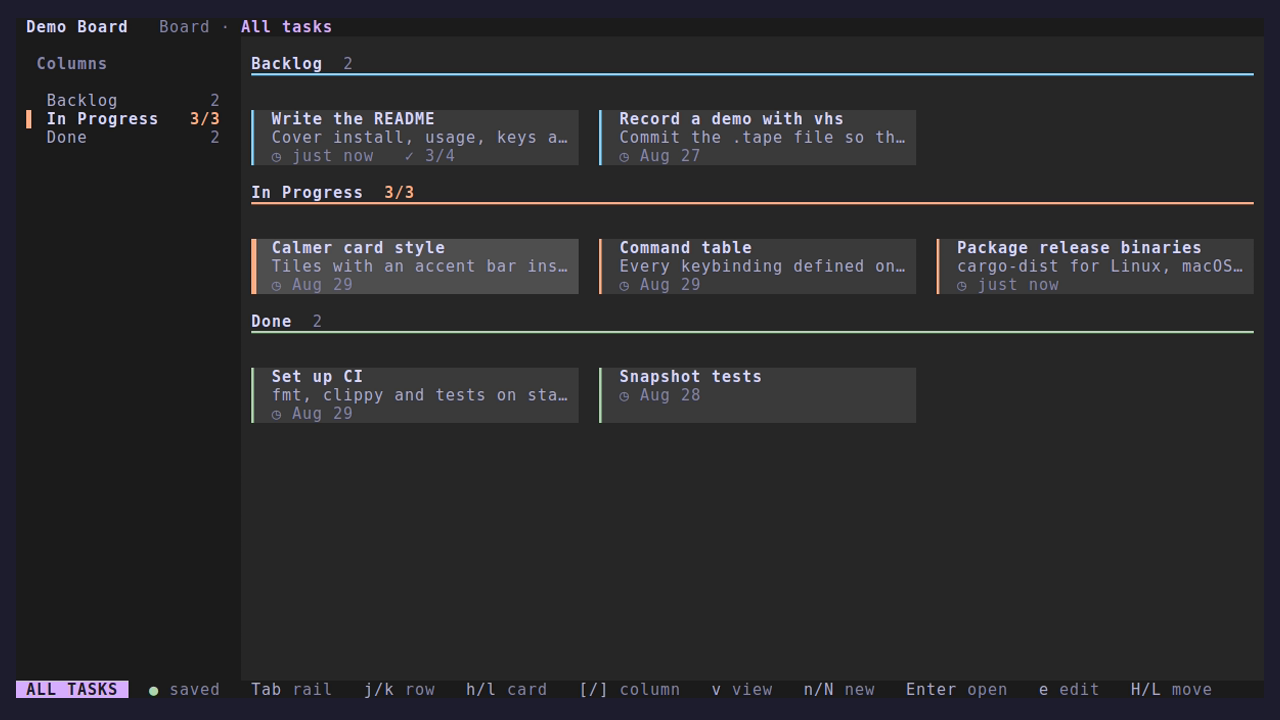
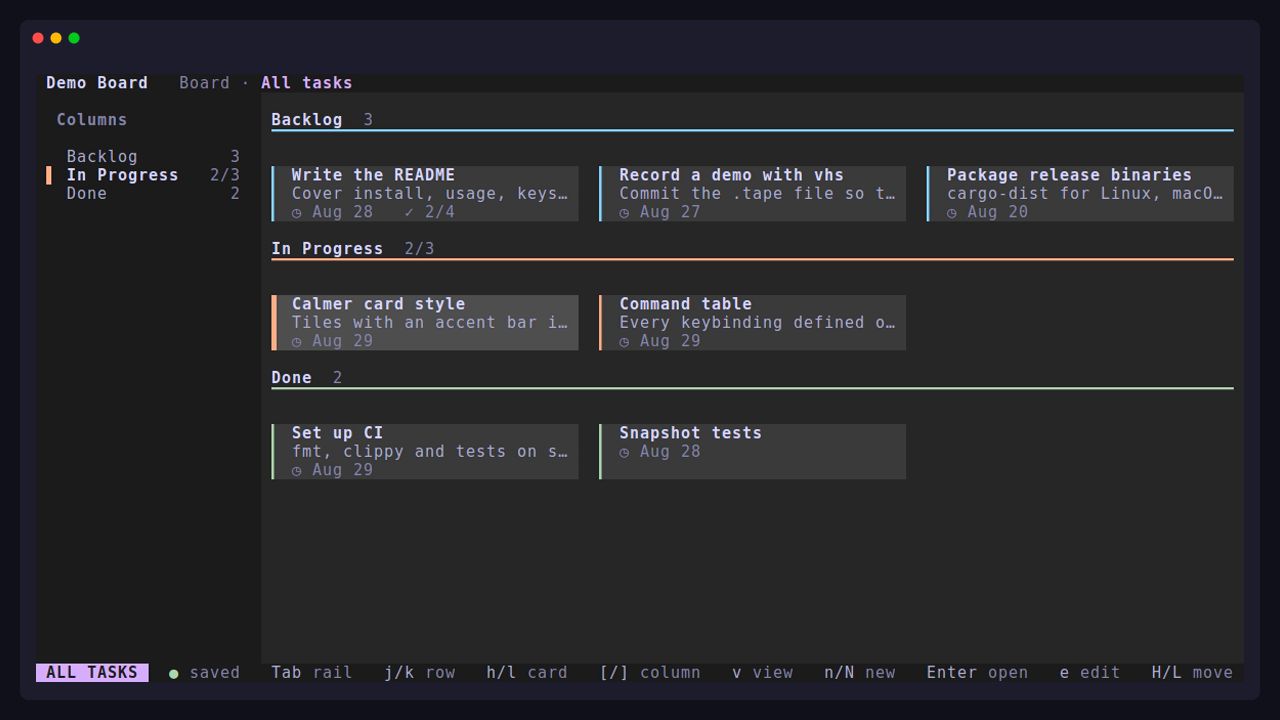
docs: a screenshot tour in the README
The README is reorganised around what using tui-kanban looks like: a
short intro and the demo, install, a quick start, then a tour with a
screenshot for each part: the board, a card's details and checklist,
search (with a table of filter terms), All tasks, the command palette,
which-key, column management with a work-in-progress limit and a
collapsed lane, and the Latte theme. Keys, options, configuration and
the board file follow as reference.

The screenshots now come from their own tape, docs/screenshots.tape,
which sets up each screen without being part of the demo, so there can
be more of them and each is taken in a known state. The demo tape only
records the GIF. Both frame the terminal in a window.

Claude-Session: https://claude.ai/code/session_015bs4Y8jDdvc2ULa7sBmrDB

diff --git a/README.md b/README.md
@@ -1,29 +1,25 @@
 # tui-kanban
 
-A calm, keyboard-first Kanban board for the terminal. Each project keeps
-its board in a small JSON file next to its code, found the way git finds
-`.git`, so running `tui-kanban` anywhere in the project opens it.
+A calm, keyboard-first Kanban board for your terminal. Each project
+keeps its board in a small JSON file next to its code, and running
+`tui-kanban` anywhere in the project opens it, the way git finds `.git`.
 
 ![A demo: moving a card, a work-in-progress limit, a card's checklist, search, All tasks, the command palette and collapsing a lane](docs/demo.gif)
 
-- **Board and All tasks views.** Lanes for the workflow, or every task
-  grouped by column. Narrow terminals get one lane at a time with a tab
-  strip; wide ones pin the detail drawer beside the lanes.
-- **Fast to drive.** `h j k l`, `1`–`9` and `g` + a lane's initial to
-  move; `H`/`L` and `J`/`K` to move cards; a command palette (`:`), a
-  which-key panel (`Space`), and undo and redo for every change.
-- **Markdown descriptions** with checklists you tick from the detail
-  drawer, edited in a built-in editor or your own `$EDITOR`.
-- **Fuzzy search with filter terms**: `in:progress`, `#tag`,
-  `updated:<7d`, with the matched letters highlighted.
+- **Two views**: lanes for the workflow, or every task grouped by column.
+- **Fast to drive**: vim-style keys, a command palette, a which-key
+  panel, and undo and redo for every change.
+- **Markdown descriptions** with checklists you tick without leaving the
+  board, edited in a built-in editor or your own `$EDITOR`.
+- **Fuzzy search with filter terms** such as `in:progress`, `#tag` and
+  `updated:<7d`.
 - **Columns managed in the app**, with colours, work-in-progress limits
-  and lanes that collapse to a strip.
-- **The mouse works too**: click, double-click, scroll, and drag cards.
-- **Safe with your data**: saved in the background, atomically; changes
-  another program makes to the file are picked up, and never silently
-  overwritten.
-- **Themes**: the four Catppuccin flavours, picked to match your
-  terminal, 16 colours, your own, or none with `NO_COLOR`.
+  and lanes that fold away.
+- **Mouse support**: click, scroll and drag cards between lanes.
+- **Safe with your data**: saved in the background and atomically, and
+  never silently overwritten when another program changes the file.
+- **Themes**: the four Catppuccin flavours, matched to your terminal's
+  background, 16 colours, your own, or none with `NO_COLOR`.
 
 ## Install
 
@@ -36,38 +32,128 @@ cargo install --git https://github.com/Theblackcat98/tui-kanban
 or, from a clone, `cargo install --path .`. Release binaries and a
 crates.io release are planned.
 
-## Usage
+## Quick start
 
 ```sh
 cd ~/src/my-project
 tui-kanban
 ```
 
-tui-kanban looks for `.tui-kanban.json` in the current directory and
-each one above it, stopping at the git root. If there isn't one, it
-asks whether to create one here or to open your personal board
-(`~/.local/share/tui-kanban/boards/personal.json`).
+The first time, there's no board yet: press `c` to create one in the
+current directory (it's named after the directory, and saved as
+`.tui-kanban.json`), or `p` to use your personal board instead. From
+then on, `tui-kanban` finds it from anywhere in the project, up to the
+git root.
 
-| Option | |
+Then `n` adds a task, `Enter` opens it, `H` and `L` move it between
+lanes, and `q` quits. Press `?` for the keys on the screen you're on,
+`:` to search every command, or `Space` for a panel of the keys you can
+press next.
+
+To try it on a sample board first:
+
+```sh
+cp examples/demo-board.json /tmp/demo.json && tui-kanban --board /tmp/demo.json
+```
+
+## A tour
+
+### The board
+
+![The Board view: a column rail on the left, and Backlog, In Progress and Done lanes of cards](docs/screenshots/board.png)
+
+Each column is a lane, and each card shows its title, the first line of
+its description, when it last changed, and checklist progress (`✓ 2/4`).
+`h j k l` or the arrow keys move around, `1`–`9` jump to a lane, `H`/`L`
+move a card to the next lane and `J`/`K` reorder it. The status line
+shows what mode you're in, whether everything is saved, and the keys
+that make sense right now.
+
+On narrow terminals the board shows one lane at a time with a tab strip
+naming the others; lanes that don't fit scroll sideways.
+
+### Details and checklists
+
+![The detail drawer open beside the board, showing a Markdown description with a checklist](docs/screenshots/detail.png)
+
+`Enter` opens a card in the drawer. Descriptions are Markdown: headings,
+lists, quotes, code and checklists. `Tab` moves between checklist items
+and `Space` ticks them. `e` edits the card, and `E` opens the
+description in your own `$EDITOR`.
+
+### Search
+
+![Searching for "in:progress card": one match, with the other lanes empty](docs/screenshots/search.png)
+
+`/` filters every lane as you type. Text matches titles fuzzily, and
+terms narrow it down:
+
+| Term | Matches |
 |---|---|
-| `--board <PATH OR NAME>` | Open a board file, or a board by name: a recent board with that name, or a personal board of that name in the data directory |
-| `--theme <NAME>` | `auto` (the default), `latte`, `frappe`, `macchiato`, `mocha`, `ansi`, or your own; see [docs/themes.md](docs/themes.md) |
-| `--no-animation` | Turn off animations; a non-empty `REDUCE_MOTION` does the same |
-| `--no-mouse` | Leave the mouse to the terminal, so text can be selected as usual |
-| `tui-kanban config` | Print where the config file is; add `--print-default` for a commented one with every default |
+| `in:progress` | tasks in a column whose name contains "progress" |
+| `#bug` | tasks with the hashtag `#bug` |
+| `updated:<7d`, `created:>2w`, `updated:today` | tasks by when they changed or were made |
+| `'exact`, `^prefix`, `suffix$`, `!not` | as in fzf |
 
-A non-empty `NO_COLOR` turns colour off; state is then shown with bold,
-reversed and underlined text.
+`↓`/`↑` step through the matches, `Enter` keeps the filter while you
+work, and `Esc` clears it.
 
-Press `b` to switch between recent boards, `?` for the keys on the
-screen you're on, `:` for every command, and `Space` for a panel of the
-keys you can press next.
+### All tasks
 
-| The board | A card's details |
-|---|---|
-| ![The Board view with three lanes and the column rail](docs/screenshots/board.png) | ![The detail drawer with a Markdown checklist](docs/screenshots/detail.png) |
-| **Search with filter terms** | **All tasks** |
-| ![Searching for "in:progress card"](docs/screenshots/search.png) | ![The All tasks view, grouped by column](docs/screenshots/all-tasks.png) |
+![The All tasks view: every task in a grid, grouped under each column's name](docs/screenshots/all-tasks.png)
+
+`v` switches to every task at once, grouped by column, for a quick
+overview. The same keys work on the cards here.
+
+### The command palette and which-key
+
+![The command palette, with "move" typed and five matching commands](docs/screenshots/palette.png)
+
+`:` or `Ctrl+K` lists every command available where you are, plus "go
+to lane" and "go to task" for each one, with the keys for each command
+on the right. Commands you run from it come first next time.
+
+![The which-key panel along the bottom of the board, listing every key](docs/screenshots/which-key.png)
+
+`Space` shows every key you can press on the current screen; the next
+key does what it normally does.
+
+### Columns and work-in-progress limits
+
+![The rail focused on In Progress, which is at its limit of 3, with Done collapsed to a narrow strip](docs/screenshots/columns.png)
+
+`Tab` focuses the column rail. There, `a` adds a column, `r` renames
+it, `d` deletes it (asking where its tasks should go), `J`/`K` reorder,
+`c` picks a colour and `w` sets a work-in-progress limit. A column at
+its limit shows its count (`3/3`) in orange, and red past it, and
+moving another task in asks first. `z` folds a lane into a narrow strip,
+say to keep Done out of the way.
+
+### Boards
+
+`b` switches between the boards you've opened recently, and your
+personal board. `--board` opens one by path, or by name.
+
+### Mouse
+
+Click a card to select it and double-click to open it; click a lane, a
+rail entry or a view name to go there, and a hint in the status line to
+run it. The wheel scrolls lanes, the drawer and menus. Drag a card to
+move it: a line shows where it will land. Capturing the mouse stops the
+terminal's own text selection (most terminals still select with `Shift`
+held); `--no-mouse`, or `mouse = false` in the config file, turns it
+off.
+
+### Themes
+
+![The same board in the light Catppuccin Latte theme](docs/screenshots/latte.png)
+
+By default tui-kanban asks the terminal whether its background is light
+or dark and picks Catppuccin Latte or Mocha to match. `--theme` picks
+one of the four Catppuccin flavours, `ansi` (the terminal's own 16
+colours), or a theme of your own; see [docs/themes.md](docs/themes.md).
+A non-empty `NO_COLOR` turns colour off, showing state with bold,
+reversed and underlined text instead.
 
 ## Keys
 
@@ -89,10 +175,6 @@ The essentials:
 | `b` | Switch boards |
 | `?` / `:` / `Space` | Help / command palette / which-key |
 | `q` | Quit |
-
-From the column rail, `a` adds a column, `r` renames it, `d` deletes it
-(asking where its tasks go), `J`/`K` reorder, `c` picks its colour and
-`w` sets a work-in-progress limit.
 
 <details>
 <summary>Every key, generated from the command table</summary>
@@ -218,16 +300,15 @@ From the column rail, `a` adds a column, `r` renames it, `d` deletes it
 
 Keys can be changed in the config file.
 
-### Mouse
+## Options
 
-Click a card to select it and double-click to open it; click a lane
-header, a rail entry or a view name to go there, and a hint in the
-status line to run it. The wheel scrolls lanes, the All tasks grid, the
-detail drawer and menus. Drag a card to move it: a line shows where it
-will land, and dropping it on a rail entry or a collapsed lane puts it
-at the end of that column. Capturing the mouse stops the terminal's own
-text selection (most terminals still select with `Shift` held); use
-`--no-mouse`, or `mouse = false` in the config file, to turn it off.
+| Option | |
+|---|---|
+| `--board <PATH OR NAME>` | Open a board file, or a board by name: a recent board with that name, or a personal board of that name in the data directory |
+| `--theme <NAME>` | `auto` (the default), `latte`, `frappe`, `macchiato`, `mocha`, `ansi`, or your own |
+| `--no-animation` | Turn off animations; a non-empty `REDUCE_MOTION` does the same |
+| `--no-mouse` | Leave the mouse to the terminal, so text can be selected as usual |
+| `tui-kanban config` | Print where the config file is; add `--print-default` for a commented one with every default |
 
 ## Configuration
 
@@ -303,13 +384,6 @@ Where files live:
 | Config and themes | `~/.config/tui-kanban/` (`$XDG_CONFIG_HOME`) |
 | Recent boards, the dismissed tip | `~/.local/state/tui-kanban/` (`$XDG_STATE_HOME`) |
 
-[examples/demo-board.json](examples/demo-board.json) is a small board
-to try on a copy:
-
-```sh
-cp examples/demo-board.json /tmp/demo.json && tui-kanban --board /tmp/demo.json
-```
-
 ## Development
 
 ```sh
@@ -326,8 +400,9 @@ cargo fmt --check
   `src/command.rs`; `UPDATE_README=1 cargo test --test readme`
   regenerates it.
 - The demo and screenshots are recorded with
-  [vhs](https://github.com/charmbracelet/vhs):
-  `cargo build --release && vhs docs/demo.tape`.
+  [vhs](https://github.com/charmbracelet/vhs), each from a tape that
+  runs on a copy of the demo board: `cargo build --release`, then
+  `vhs docs/demo.tape` and `vhs docs/screenshots.tape`.
 - The minimum supported Rust version is 1.88, checked in CI.
 
 ## License
